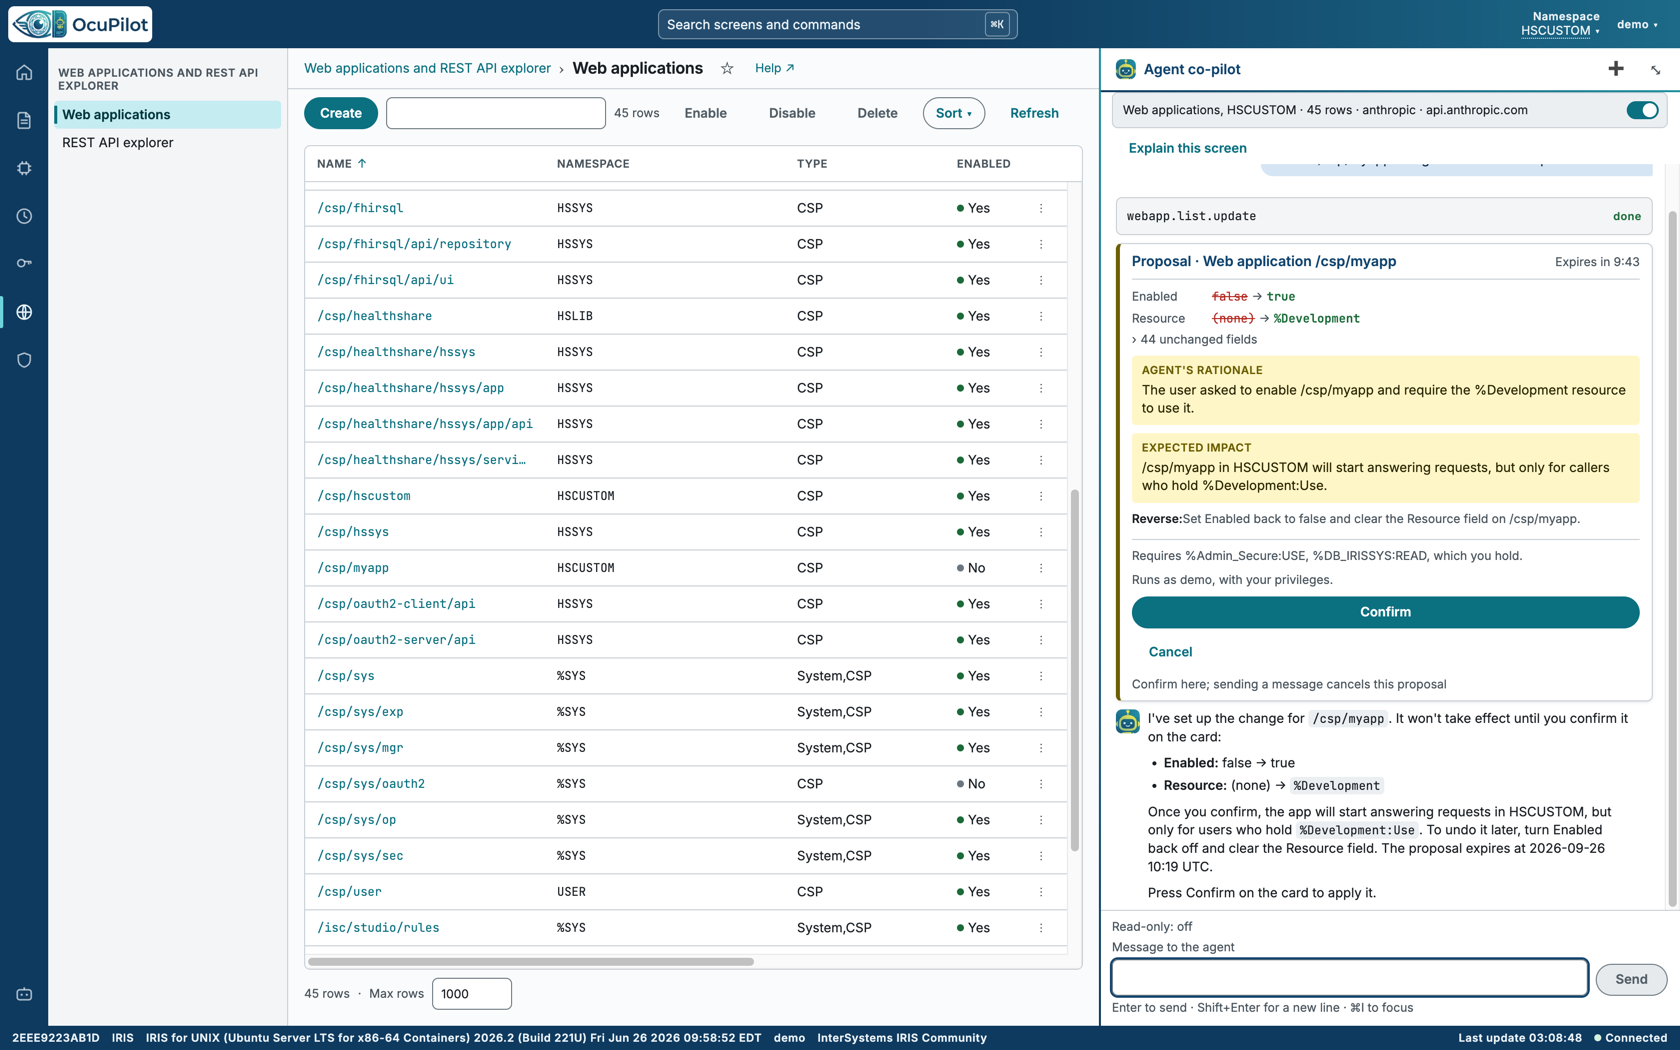
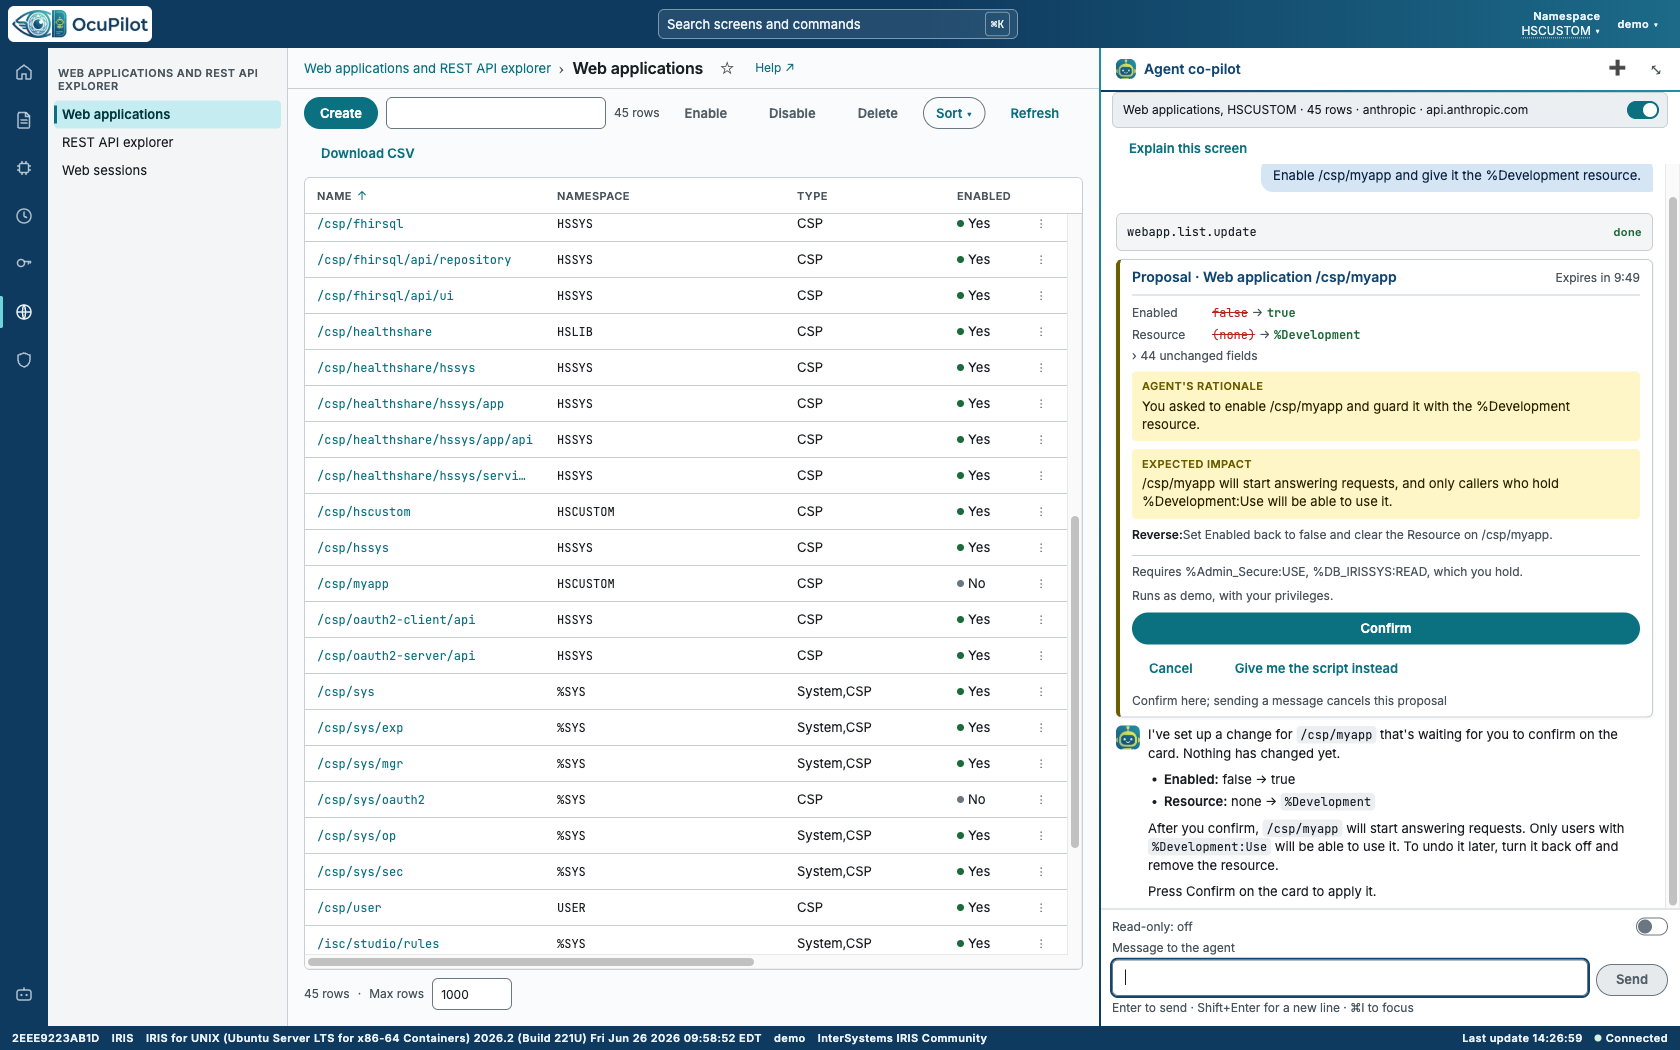
Docs: README for 1.0.4 - the disk operations and integrity check, external language servers, the Task Manager and lock removal in the areas table and off the limitations and roadmap; the eight disk operations that ship switched off; who can sign in; the Windows line-ending fix; current test counts; 

diff --git a/README.md b/README.md
@@ -55,7 +55,7 @@ instance. Sign in as `demo` with the password `ocupilot-demo`. Or watch it first
 - To see how OcuPilot treats a user with fewer privileges, sign in as `operator` with the password
   `ocupilot-operator`: an operator who runs tasks and processes but holds no security privileges.
 
-![The agent proposes enabling /csp/myapp: the proposal card beside the Web applications list shows the before-and-after comparison, the agent's rationale and expected impact, how to reverse the change, and the privilege it needs.](docs/images/02-proposal.png)
+![The agent proposes enabling /csp/myapp: the proposal card beside the Web applications list shows the before-and-after comparison, the agent's rationale and expected impact, how to reverse the change, the privilege it needs, and Give me the script instead.](docs/images/02-proposal.png)
 
 <details>
 <summary><b>More screenshots</b></summary>
@@ -83,6 +83,11 @@ Confirm and what is never sent to the model, read from the rules the instance en
 permission that grants it, and **Check permission** for any user or role.
 
 ![The user editor's Effective privileges tab for operator, listing each resource and the role that grants it.](docs/images/14-effective-privileges.png)
+
+**Disks, not only a list of them** - mount, dismount, truncate, compact and defragment a database,
+and a three-step integrity check with its own log.
+
+![The Check integrity wizard with two databases selected, followed by its Globals and Report steps.](docs/images/15-integrity-check.png)
 
 **Asking about the screen you are on** - the agent reads the task schedule and history and explains
 what needs attention.
@@ -139,10 +144,10 @@ change and says what would be needed; Home marks the screens this user may not o
   accounts, OcuPilot's own applications, roles, resources and processes. An administrator can stop
   the agent everywhere with a kill switch, hold it read-only, switch off individual agent writes,
   and cap how many turns each user runs an hour; anyone can make the agent read-only for
-  themselves. Four agent actions ship switched off - deleting a local database, deleting a
-  namespace, importing tasks and purging the audit database - and an administrator turns them on
-  under **Agent co-pilot → Governance policy**. The **Guardrails** page shows all of it in one
-  place.
+  themselves. Twelve agent actions ship switched off - deleting a local database, deleting a
+  namespace, importing tasks, purging the audit database and the eight disk operations - and an
+  administrator turns them on under **Agent co-pilot → Governance policy**. The **Guardrails** page
+  shows all of it in one place.
 - **Findings you can fix.** Home checks for open web applications, an open monitoring API, accounts
   holding `%All`, certificates that expire within 30 days, auditing switched off, dismounted or
   nearly full databases, the Task Manager's state and suspended tasks. Where a fix exists, **Fix
@@ -160,14 +165,17 @@ change and says what would be needed; Home marks the screens this user may not o
 | Web applications | Web applications, web sessions, REST API explorer, OpenAPI document viewer | Create, edit, enable, disable and delete applications; end web sessions; browse every REST application's endpoints, send a request from its OpenAPI document and copy it as curl |
 | Permissions | Users, roles, resources, services | Create and edit users and roles, set passwords, grant and revoke roles and resource permissions, enable and disable services; see a user's effective privileges, and check whether a user or role holds a permission and through which role |
 | Security and secrets | SSL/TLS, X.509 credentials, wallet, OAuth 2.0 (client server descriptions, client configurations, resource servers, the authorization server, server client descriptions), LDAP, auditing, allowed directories | Editors for each, SSL/TLS and LDAP connection tests, OAuth token revocation, audit event configuration, and audit database copy and purge |
-| Tasks | Task schedule, on-demand tasks, upcoming tasks, task history, task details, background tasks | A New Task wizard, edit, run, suspend, resume and delete; export and import tasks; pause, resume and cancel background tasks |
-| OS management | Processes, process details, locks, system usage, dashboard, license usage, databases, local databases, namespaces, devices | Suspend, resume and terminate processes; broadcast a message to terminal sessions; create, edit and delete local databases, optionally with their files; create, edit and delete namespaces and their global, routine and package mappings, and copy mappings between namespaces; edit devices; free space per database |
-| Logs | A unified log hub; `alerts.log`, `messages.log` and its older files, application errors, the audit database, and six more: the System Monitor log, background task errors, xDBC errors, SQL diagnostics, the interoperability event log and the analytics log | See every log in one list and one timeline, newest first; search and page each log, filter the audit database to agent writes, delete application errors, and ask the agent to explain any entry |
+| Tasks | Task schedule, on-demand tasks, upcoming tasks, task history, task details, background tasks | A New Task wizard, edit, run, suspend, resume and delete; export and import tasks; suspend and resume the Task Manager itself; pause, resume and cancel background tasks |
+| OS management | Processes, process details, locks, system usage, dashboard, license usage, databases, local databases, integrity check and its log, namespaces, devices, external language servers | Suspend, resume and terminate processes; remove a lock, all of a process's locks or all of a remote client's; broadcast a message to terminal sessions; create, edit and delete local databases, optionally with their files; mount, dismount, truncate, compact, defragment, expand and grow databases, with progress for the long ones; run the integrity check and read its log; create, edit and delete namespaces and their global, routine and package mappings, and copy mappings between namespaces; edit devices; free space per database; create, edit, delete, start and stop external language servers and read their activity log |
+| Logs | A unified log hub; `alerts.log`, `messages.log` and its older files, application errors, the audit database, and six more: the System Monitor log, background task errors, xDBC errors, SQL diagnostics, the interoperability event log and the analytics log | See every log in one list and one timeline, newest first; search and page each log, filter the audit database to agent writes, delete application errors, and ask the agent to explain any entry, which it reads alongside the rest of the page |
 
 Two more areas sit beside the six. **Home** shows the instance's performance, refreshing itself,
 and its findings. **Agent co-pilot** holds the agent's definitions, switches and governance policy
 for administrators, and for everyone the Guardrails page, your transcripts, and the agent audit
 ledger of each model call, tool call and confirmed write.
+
+An area opens when you may use any of its screens, and each screen still checks your own
+privileges.
 
 ## Quick start
 
@@ -194,7 +202,8 @@ run beside an IRIS container you already have. The classic Management Portal sta
 ### Connect a model
 
 The first time an administrator signs in with no model configured, OcuPilot opens the agent
-definition form.
+definition form. It opens only that once: **Cancel** takes you to Home, and every screen works
+without a model.
 
 1. Enter a **Name**, choose a **Provider** and keep its default **Model** or type another.
 2. Paste the **API key** (see [Get a model key](#get-a-model-key-in-two-minutes)).
@@ -246,6 +255,10 @@ switched off, on an update as on a new install, unless you already set them expl
 themselves still do all four; to let the agent propose them, turn them on under **Agent co-pilot →
 Governance policy**.
 
+In 1.0.4, the agent's eight disk operations - mount, dismount, truncate, compact, defragment,
+expand, grow and the integrity check - start switched off in the same way. The screens do all eight,
+and settings you already made are kept.
+
 ## Get a model key in two minutes
 
 | Provider | Default model | Where to get a key |
@@ -293,6 +306,11 @@ user; otherwise it prints the one command that grants it. OcuPilot needs IRIS or
 **2026.2 or later** and IPM 0.10.0 or later. On plain IRIS Community, which has no `HSCUSTOM`
 namespace, the container installs into `USER`.
 
+OcuPilot signs each person in with their own IRIS account, and every screen checks that account's
+privileges. An account whose only role is `%Manager` also needs read access to the database of the
+namespace OcuPilot is installed in, for example `%DB_HSCUSTOM`; without it, every request is
+refused.
+
 ## What installing OcuPilot changes
 
 OcuPilot is an administration tool, so it says plainly what it adds to an instance.
@@ -331,7 +349,7 @@ Uninstalling (`zpm "uninstall ocupilot"`) removes what the installer created.
    instance now holds the new values; the panel shows the change done and audit-marked, confirmed by
    you.
 
-   ![The Web applications list with /csp/myapp enabled and marked Changed, and the confirmed proposal in the panel.](docs/images/03-changed.png)
+   ![The Web applications list with /csp/myapp enabled and marked Changed with its read-back line, and the confirmed proposal in the panel.](docs/images/03-changed.png)
 
 5. **Open Logs → Audit database**, tick **Agent-marked events only** and press **Search**: the
    change is there as an `OcuPilot/Security/AgentWrite` event.
@@ -418,8 +436,8 @@ token and hidden values left as placeholders.
   portal in headless Chrome, compiles and smoke-tests on both IRIS Community and IRIS for Health
   Community, and builds and loads the IPM package offline. The two long suites each run across three
   containers at once, so a full run takes about 20 minutes.
-- **Tests:** 363 `%UnitTest` classes run inside IRIS; 97 Node test files and 134 Angular component
-  specs cover the client; 126 browser specs exercise the running portal.
+- **Tests:** 386 `%UnitTest` classes run inside IRIS; 98 Node test files and 147 Angular component
+  specs cover the client; 131 browser specs exercise the running portal.
 - **A smoke test you can run:** `bash scripts/smoke.sh --container ocupilot --user _SYSTEM
   --password SYS` asks the running instance whether OcuPilot works; the assertions live inside
   IRIS, so CI and your machine ask the same question.
@@ -438,6 +456,15 @@ token and hidden values left as placeholders.
   look for the `container-start:` lines. `LOAD-FAILED` means a compile error, `STARTPATH-FAILED`
   names the install step that failed. A failed install is retried three times and then left
   stopped; fix the cause and run `docker compose up -d --wait` again.
+- **On Windows, the container stops at once with `set: Illegal option -`:** the clone checked the
+  start scripts out with Windows line endings. A clone of 1.0.4 or later is not affected. In a clone
+  made before 1.0.4, run this once from its folder after `git pull`, then start again; it replaces any
+  local edits in those three folders:
+
+  ```bash
+  git checkout HEAD -- scripts .githooks _bmad/scripts
+  ```
+
 - **Test connection says the model did not answer in time:** see the local-model note under
   [Get a model key](#get-a-model-key-in-two-minutes).
 - **Anthropic refuses the key:** create a key inside one workspace.
@@ -462,10 +489,9 @@ that carry Community Opportunity status:
 ## Known limitations
 
 - **One instance at a time.** OcuPilot manages the instance it is installed on.
-- **Not every portal page yet.** Remote databases, the disk operations (mount, compact, the
-  integrity check and the rest), journals, encryption, mirroring and Interoperability are still the
-  classic portal's; the LDAP and Kerberos and the service editors cover the common fields and link to
-  the classic page for the rest.
+- **Not every portal page yet.** Remote databases, journals, encryption, mirroring and
+  Interoperability are still the classic portal's; the LDAP and Kerberos and the service editors
+  cover the common fields and link to the classic page for the rest.
 - **A model is needed for the agent.** Every screen works without one; the agent needs a key or a
   local model. A turn that makes a change can take up to a minute, and a small local model may
   propose changes that need correcting.
@@ -486,12 +512,9 @@ that carry Community Opportunity status:
 New releases arrive every few days, each installed and tested on a clean machine before it reaches
 `main`. Next:
 
-- **Databases and disks:** remote databases, and mount, dismount, compact, defragment, expand and
-  the integrity check.
-- **The rest of system operation:** journals, licensing and ECP, encryption, superservers and
-  authentication options.
-- **The remaining editors:** the service editor and the LDAP and Kerberos editor in full, external
-  language servers, starting and suspending the Task Manager, and removing locks.
+- **The rest of system operation:** remote databases, journals, licensing and ECP, encryption,
+  superservers and authentication options.
+- **The remaining editors:** the service editor and the LDAP and Kerberos editor in full.
 - **Permissions and monitoring:** SQL privileges, the raw metrics, and a live log tail.
 
 After that, OcuPilot grows toward parity with the classic portal: a code and SQL explorer,
